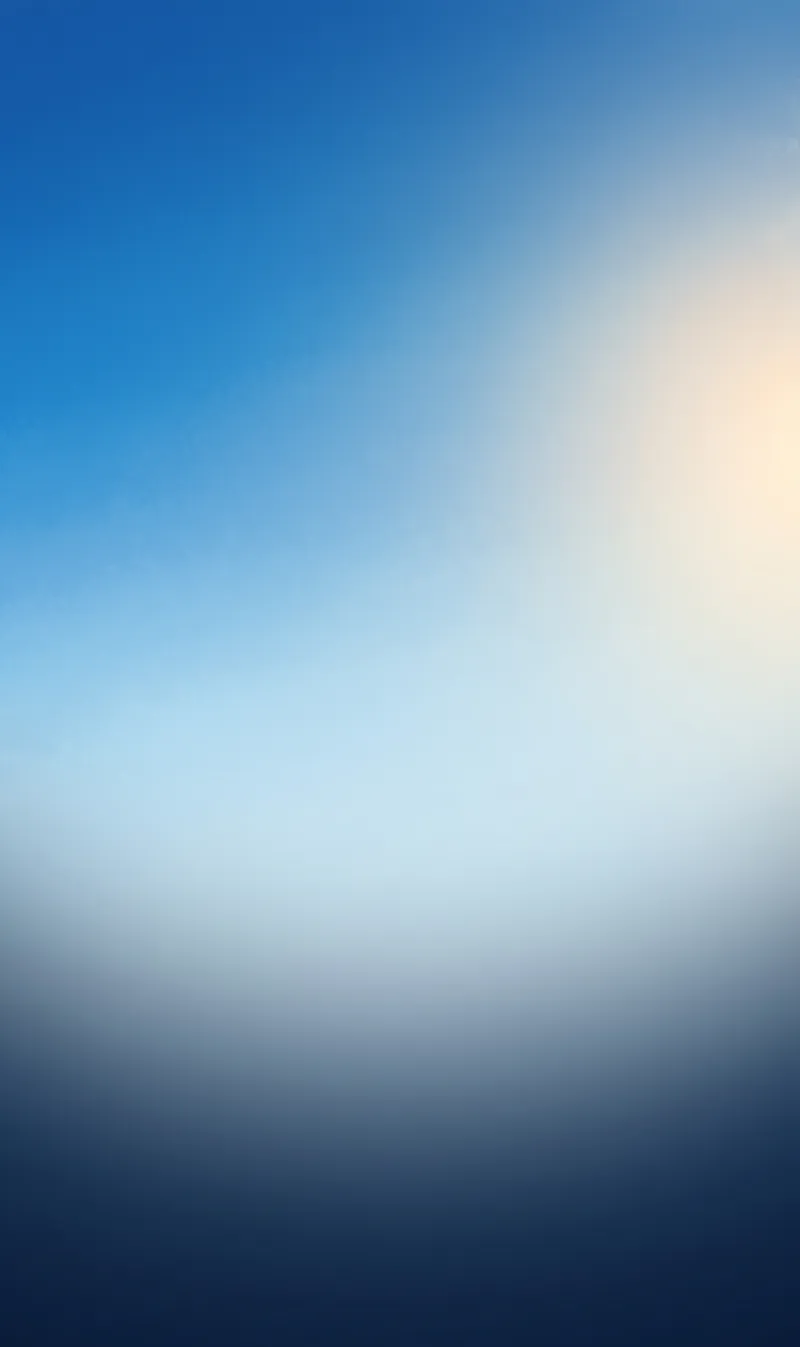
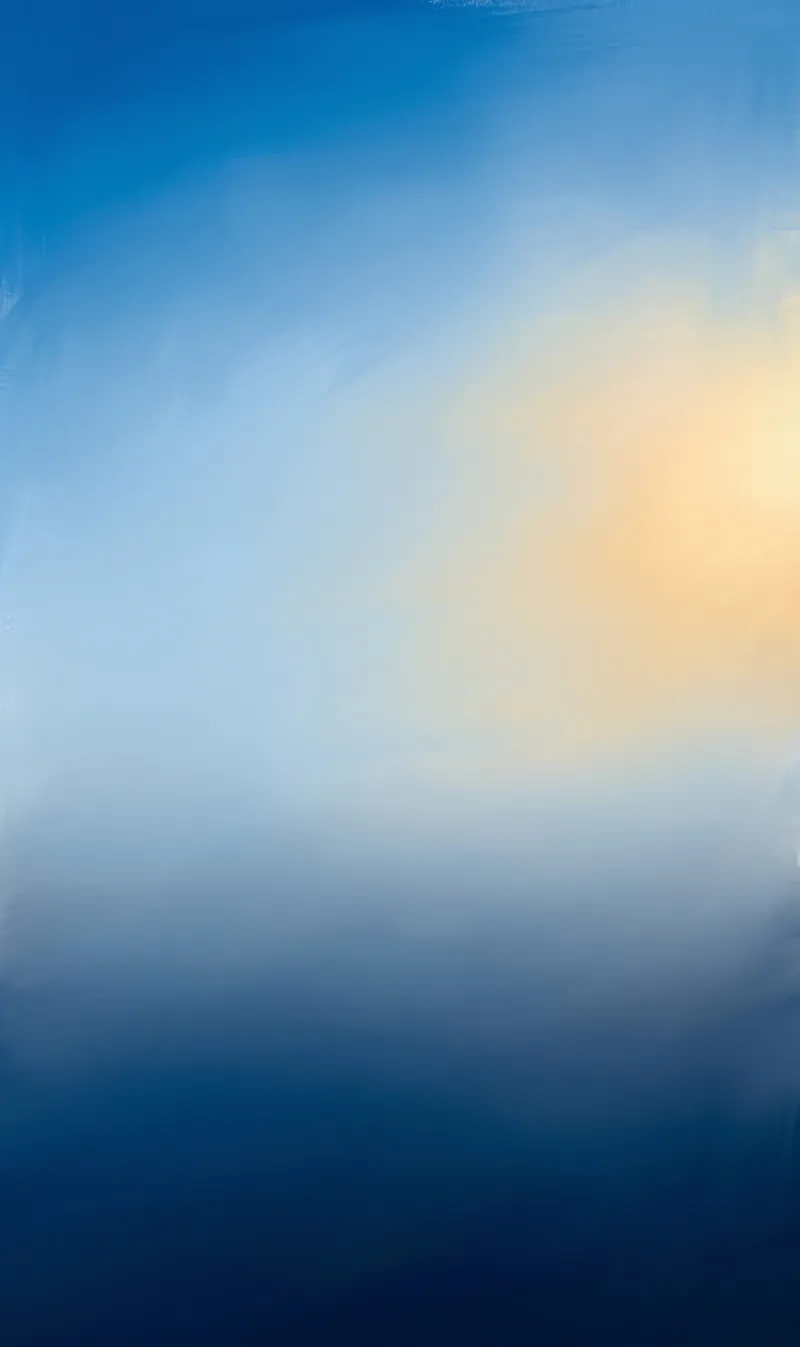
Sun phase from real sunrise/sunset (not clock hours)
Bug: 'dusk' / 'golden hour' painterly sky kicked in at 17:00 sharp via
hardcoded hour band (hour >= 17). But Palma's sunset today is 21:09 —
that's 4h of sun left when the dusk image started rendering.

Fix:
- New phaseFor(nowMs, sunrise, sunset) → 'night' | 'dawn' | 'day' | 'dusk'.
  • dawn: first 90 min after sunrise
  • dusk: last 90 min before sunset
  • night: before sunrise or after sunset
  • day: everything in between
- atmPalette() + skyImagePath() + WeatherBackdrop accept an optional phase
  prop. When supplied, palette + image select on phase, not hour band.
- TodayView + TodayVisual compute phase via phaseFor() from weather.sun
  and pass it down.
- Hour-band fallback retained as phaseFromHour() for callers without sun
  data.

Also: replaced clear-day.webp with a v2 painterly image from Gemini.

diff --git a/src/components/WeatherBackdrop.tsx b/src/components/WeatherBackdrop.tsx
@@ -31,17 +31,50 @@ export interface AtmPalette {
 }
 
 /**
- * Per-condition × hour-of-day palette. Hour bands:
- *   • night: <6 or >=20
- *   • dawn:  5–8
- *   • dusk:  17–20
- *   • day:   8–17
- * The fg color is the literal text color to use on top of this sky.
+ * Sun-phase signature used to pick palette + image. When real sunrise/sunset
+ * available, callers should compute `phaseFor(now, sunrise, sunset)`. Falls
+ * back to crude hour bands when no sun data.
  */
-export function atmPalette(desc: ConditionCode, hour: number): AtmPalette {
-  const night = hour < 6 || hour >= 20;
-  const dusk  = hour >= 17 && hour < 20;
-  const dawn  = hour >= 5 && hour < 8;
+export type SunPhase = 'night' | 'dawn' | 'day' | 'dusk';
+
+/**
+ * Compute the sun phase from real sunrise/sunset times. Bands relative to
+ * sun, not the clock:
+ *   • dawn:  90 min after sunrise (low warm light)
+ *   • dusk:  90 min before sunset (golden hour → magic hour)
+ *   • night: before sunrise OR after sunset
+ *   • day:   the bulk in between
+ */
+export function phaseFor(nowMs: number, sunrise: Date, sunset: Date): SunPhase {
+  const WINDOW = 90 * 60_000;
+  const sr = sunrise.getTime();
+  const ss = sunset.getTime();
+  if (nowMs < sr || nowMs >= ss) return 'night';
+  if (nowMs < sr + WINDOW) return 'dawn';
+  if (nowMs >= ss - WINDOW) return 'dusk';
+  return 'day';
+}
+
+/** Crude hour-band fallback when no sun phase is supplied. */
+function phaseFromHour(hour: number): SunPhase {
+  if (hour < 6 || hour >= 20) return 'night';
+  if (hour >= 5 && hour < 8) return 'dawn';
+  if (hour >= 17 && hour < 20) return 'dusk';
+  return 'day';
+}
+
+/**
+ * Per-condition × sun-phase palette. The fg color is the literal text color
+ * to use on top of this sky.
+ *
+ * If `phase` omitted, falls back to hour-band inference (for callers that
+ * don't have sun data yet).
+ */
+export function atmPalette(desc: ConditionCode, hour: number, phase?: SunPhase): AtmPalette {
+  const ph = phase ?? phaseFromHour(hour);
+  const night = ph === 'night';
+  const dusk  = ph === 'dusk';
+  const dawn  = ph === 'dawn';
 
   if (desc === 'Clear' || desc === 'Sunny' || desc === 'Mostly clear' || desc === 'Mostly sunny') {
     if (night) return { top: '#0a1428', mid: '#1a2a4a', bottom: '#2d3a5e', fg: '#e8e9f0', glow: 'rgba(255,240,200,0.4)' };
@@ -76,13 +109,14 @@ export function atmPalette(desc: ConditionCode, hour: number): AtmPalette {
 }
 
 /**
- * Pick the painterly WebP for the given condition × hour.
- * Mirrors atmPalette's hour bands but maps to a file slug.
+ * Pick the painterly WebP for the given condition + sun phase. If `phase`
+ * omitted, falls back to hour-band inference.
  */
-function skyImagePath(desc: ConditionCode, hour: number): string {
-  const night = hour < 6 || hour >= 20;
-  const dusk  = hour >= 17 && hour < 20;
-  const dawn  = hour >= 5 && hour < 8;
+function skyImagePath(desc: ConditionCode, hour: number, phase?: SunPhase): string {
+  const ph = phase ?? phaseFromHour(hour);
+  const night = ph === 'night';
+  const dusk  = ph === 'dusk';
+  const dawn  = ph === 'dawn';
 
   if (desc === 'Clear' || desc === 'Sunny' || desc === 'Mostly clear' || desc === 'Mostly sunny') {
     if (night) return '/sky/clear-night.webp';
@@ -109,13 +143,17 @@ const GRAIN_URL =
 interface WeatherBackdropProps {
   desc: ConditionCode;
   hour: number;
+  /** Optional sun phase — when supplied, palette + image select on this
+   * instead of clock-hour bands. Use phaseFor(nowMs, sunrise, sunset). */
+  phase?: SunPhase;
   fullBleed?: boolean;
 }
 
-export function WeatherBackdrop({ desc, hour }: WeatherBackdropProps) {
-  const p = atmPalette(desc, hour);
-  const isNight = hour < 6 || hour >= 20;
-  const imgSrc = skyImagePath(desc, hour);
+export function WeatherBackdrop({ desc, hour, phase }: WeatherBackdropProps) {
+  const p = atmPalette(desc, hour, phase);
+  const ph = phase ?? phaseFromHour(hour);
+  const isNight = ph === 'night';
+  const imgSrc = skyImagePath(desc, hour, phase);
 
   return (
     <div

diff --git a/src/views/TodayView.tsx b/src/views/TodayView.tsx
@@ -19,7 +19,7 @@ import { TodayWindguru } from '@/views/TodayWindguru';
 import { TodayGraph } from '@/views/TodayGraph';
 import { TodayMap } from '@/views/TodayMap';
 import { LocationSwitcher } from '@/components/LocationSwitcher';
-import { WeatherBackdrop, atmPalette } from '@/components/WeatherBackdrop';
+import { WeatherBackdrop, atmPalette, phaseFor } from '@/components/WeatherBackdrop';
 import { localHour } from '@/utils/format';
 
 const SUB_VIEWS: { key: TodaySubView; label: string; enabled: boolean }[] = [
@@ -36,9 +36,13 @@ export function TodayView() {
   const [switcherOpen, setSwitcherOpen] = useState(false);
 
   const onVisual = todaySub === 'visual';
-  // Foreground color for tabs comes from the sky palette when Visual is active.
+  // Sun-phase derived from real sunrise/sunset, not a clock-hour heuristic.
+  // This avoids "golden hour" appearing at 17:00 when sunset is 21:00.
+  const phase = data && onVisual
+    ? phaseFor(Date.now(), data.sun.sunrise, data.sun.sunset)
+    : undefined;
   const palette = data && onVisual
-    ? atmPalette(data.current.description, localHour(data.current.observedAt, data.location.timezone))
+    ? atmPalette(data.current.description, localHour(data.current.observedAt, data.location.timezone), phase)
     : null;
   const fg = palette?.fg ?? '#fafafa';
 
@@ -70,6 +74,7 @@ export function TodayView() {
           <WeatherBackdrop
             desc={data.current.description}
             hour={localHour(data.current.observedAt, data.location.timezone)}
+            phase={phase}
             fullBleed
           />
         </div>

diff --git a/src/views/TodayVisual.tsx b/src/views/TodayVisual.tsx
@@ -23,7 +23,7 @@ import { WxIcon } from '@/components/WxIcon';
 import { MetricDetail, type MetricKey } from '@/components/MetricDetail';
 import { RainNowcastBanner } from '@/components/RainNowcastBanner';
 import { AnnotationStrip } from '@/components/AnnotationStrip';
-import { atmPalette } from '@/components/WeatherBackdrop';
+import { atmPalette, phaseFor } from '@/components/WeatherBackdrop';
 import { compass, fmtDuration, fmtTime, localHour, uvLabel } from '@/utils/format';
 
 function nearestHourIndex(hours: { time: Date }[], now: number): number {
@@ -60,7 +60,8 @@ export function TodayVisual({ weather, onOpenSwitcher }: { weather: WeatherCondi
 
   // Atmospheric palette drives all text + accent colors so the type tones
   // shift with the sky (warm peach at golden hour, cool white midday, etc.).
-  const p = atmPalette(current.description, heroHour);
+  const phase = phaseFor(nowMs, sun.sunrise, sun.sunset);
+  const p = atmPalette(current.description, heroHour, phase);
   const fg = p.fg;
   const fgLo = `${fg}cc`;
   const fgXLo = `${fg}80`;
